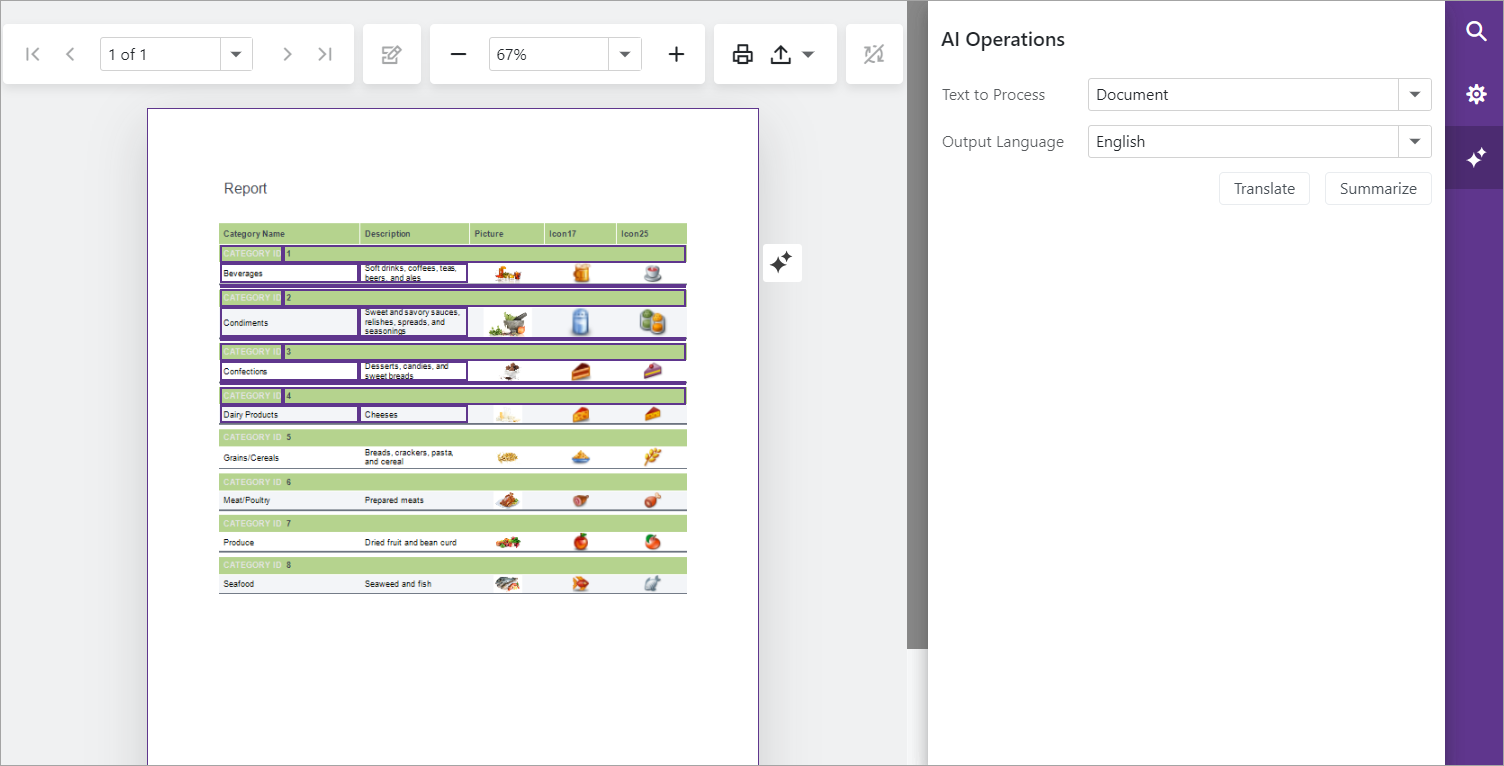
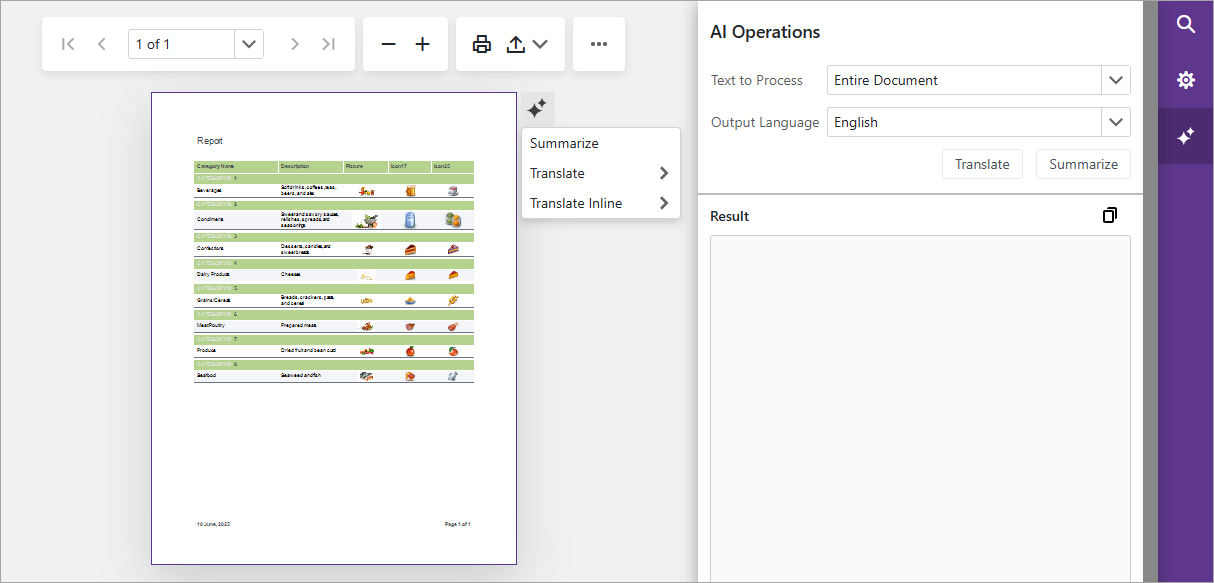
update example

Changed region(s): [[0.0305, 0.0, 1.0, 1.0], [0.8229, 0.2161, 0.8534, 0.2779], [0.3657, 0.8954, 0.3962, 0.9262]]

diff --git a/CS/BlazorReportViewer/Program.cs b/CS/BlazorReportViewer/Program.cs
@@ -24,13 +24,12 @@ builder.Services.AddDevExpressAI((config) => {
     config.AddBlazorReportingAIIntegration(cfg =>
         cfg.AddSummarization(summarizeOptions =>
             summarizeOptions.SetSummarizationMode(SummarizationMode.Abstractive))
-        .AddTranslation(translateOptions =>
+            .AddTranslation(translateOptions =>
                 translateOptions.SetLanguages(new List<LanguageInfo> {
-                        new LanguageInfo { Text = "English", Id = "En" },
-                        new LanguageInfo { Text = "German", Id = "De" },
-                        new LanguageInfo { Text = "Spanish", Id = "Es" }
+                        new LanguageInfo { Text = "German", Id = "de-DE" },
+                        new LanguageInfo { Text = "Spanish", Id = "es-ES" }
                     })
-                    .EnableTranslation())
+                .EnableTranslation().EnableInlineTranslation())
         );
 });
 builder.WebHost.UseStaticWebAssets();

diff --git a/README.md b/README.md
@@ -6,12 +6,13 @@
 <!-- default badges end -->
 # Reporting for Blazor - Summarize and Translate DevExpress Reports
 
-This example adds AI-powered summarize/translate capabilities to the DevExpress Blazor Report Viewer. These capabilities are available within the user interface via two buttons designed to access the report document and process content as follows: 
+This example adds AI-powered summarize/translate capabilities to the DevExpress Blazor Report Viewer. The following capabilities are available: 
 
 - **Summarize**: Uses generative AI to summarize report content and displays core insights associated with this report. 
 - **Translate**: Uses AI services to translate report content to another language. 
+- **Translate Inline**: Uses AI services to translate report content to another language and displays the translation directly within the previewed document. You can export or print the translated document.
 
-These actions are also available in context menu when you select report content. Note the AI Operations icon that floats next to the report page. Users can click it to invoke the context menu.
+These actions are available in the AI-powered Quick Actions menu when you select report content. Note the AI Operations icon that floats next to the report page. Users can click it to invoke the context menu. The Summarize and Translate actions are also available in the **AI Operations** tab.
 
 The following is an image of the application interface. As you can see, users can process the entire document, individual pages, or selected content. 
 
@@ -30,11 +31,13 @@ Add the following NuGet packages:
 > [!Note]
 > We use the following versions of the `Microsoft.Extensions.AI.*` libraries in our source code:
 >
-> v25.1.2+ | **9.4.3-preview.1.25230.7**
+> - Microsoft.Extensions.AI.Abstractions: **9.5.0**
+> - Microsoft.Extensions.AI: **9.5.0**
+> - Microsoft.Extensions.AI.OpenAI: **9.5.0-preview.1.25265.7**
 >
-> We do not guarantee compatibility or correct operation with higher versions. Refer to the following announcement for additional information: [Microsoft.Extensions.AI.Abstractions NuGet Package Version Upgrade in v24.2.6](https://community.devexpress.com/blogs/news/archive/2025/03/12/important-announcement-microsoft-extensions-ai-abstractions-nuget-package-version-upgrade.aspx).
+> We do not guarantee compatibility or correct operation with other versions.
 
-For the list of supported AI services and the corresponding prerequisites, refer to *Supported AI Services* in the following help topic: [AI-powered Extensions for DevExpress Reporting](https://docs.devexpress.com/XtraReports/405211/ai-powered-functionality/ai-for-devexpress-reporting?v=24.2#supported-ai-services).
+For the list of supported AI services and the corresponding prerequisites, refer to *Supported AI Services* in the following help topic: [AI-powered Extensions for DevExpress Reporting](https://docs.devexpress.com/XtraReports/405211/ai-powered-functionality/ai-for-devexpress-reporting#supported-ai-services).
 
 ### Add Personal Keys
 
@@ -87,13 +90,12 @@ builder.Services.AddDevExpressAI((config) => {
     config.AddBlazorReportingAIIntegration(cfg =>
         cfg.AddSummarization(summarizeOptions =>
             summarizeOptions.SetSummarizationMode(SummarizationMode.Abstractive))
-        .AddTranslation(transateOptions =>
-                transateOptions.SetLanguages(new List<LanguageInfo> {
-                        new LanguageInfo { Text = "English", Id = "En" },
-                        new LanguageInfo { Text = "German", Id = "De" },
-                        new LanguageInfo { Text = "Spanish", Id = "Es" }
+            .AddTranslation(translateOptions =>
+                translateOptions.SetLanguages(new List<LanguageInfo> {
+                        new LanguageInfo { Text = "German", Id = "de-DD" },
+                        new LanguageInfo { Text = "Spanish", Id = "es-ES" }
                     })
-                    .EnableTranslation())
+                .EnableTranslation().EnableInlineTranslation())
         );
 });
 
@@ -115,7 +117,7 @@ var app = builder.Build();
 ## More Examples
 
 - [Reporting for ASP.NET Core - Summarize and Translate DevExpress Reports Using Azure OpenAI](https://github.com/DevExpress-Examples/reporting-asp-net-core-ai-summarize-and-translate)
-- [Reporting for ASP.NET Core - Integrate AI Assistant based on Azure OpenAI](https://github.com/DevExpress-Examples/web-reporting-integrate-ai-assistant/)
+- [Blazor Grid and Report Viewer — Incorporate an AI Assistant (Azure OpenAI) in your next DevExpress-powered Blazor app](https://github.com/DevExpress-Examples/blazor-grid-and-report-viewer-integrate-ai-assistant)
 - [Rich Text Editor and HTML Editor for Blazor - How to integrate AI-powered extensions](https://github.com/DevExpress-Examples/blazor-ai-integration-to-text-editors)
 - [AI Chat for Blazor - How to add DxAIChat component in Blazor, MAUI, WPF, and WinForms applications](https://github.com/DevExpress-Examples/devexpress-ai-chat-samples)
 
